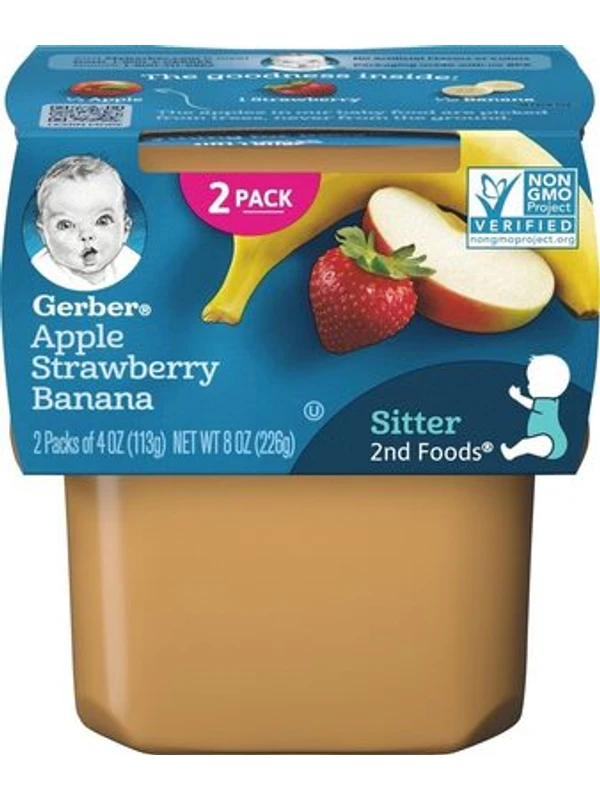
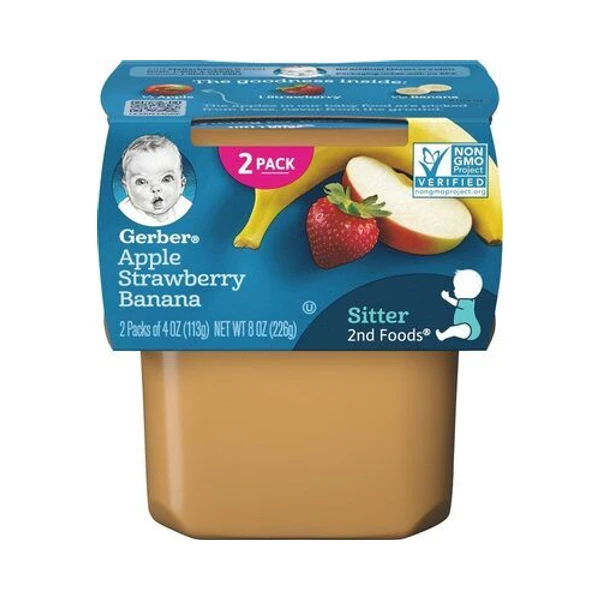
fix(images): remove cross-brand stand-ins — validator Errors 0
Six branded products were showing competitor photos (trust/legal risk):
Cola→Pepsi, Snickers→Mars, Nutella→Milka, Bounty→Mars, Barilla→Makfa,
Gerber→FrutoNyanya. Validator flagged all as BRAND MISMATCH.

- cola/snickers/nutella/bounty/penne-barilla: image removed,
  imageStatus=rejected → clean emoji placeholder (honest, no competitor)
- gerber: fetched real Gerber shot from OpenFoodFacts (verified_generic)
- rejected two amateur OFf photos (hand-held/in-store) — below catalog bar
- added OFf_QUERY_OVERRIDES for the 6 flagship brands
- manifest updated; VALID_PRODUCT_IMAGES disk guard keeps stale rows safe

validate:images → Errors: 0 (was 6); tsc clean; coverage 78%→82%

diff --git a/src/data/products.ts b/src/data/products.ts
@@ -1207,7 +1207,7 @@ export const products: Product[] = [
     tags: ["сок", "мультифрукт", "напитки"],
   },
   {
-    id: "cola", imageStatus: "verified_exact", image: "/products/cola.webp", emoji: "🥤",
+    id: "cola", imageStatus: "rejected", emoji: "🥤",
     category: "Напитки",
     title: "Кока-Кола",
     description: "Кока-Кола газированный напиток. Бутылка 1.5л.",
@@ -1637,7 +1637,7 @@ export const products: Product[] = [
     tags: ["пряники", "медовые", "глазурь"],
   },
   {
-    id: "snickers", imageStatus: "verified_exact", image: "/products/snickers.webp", emoji: "🍫",
+    id: "snickers", imageStatus: "rejected", emoji: "🍫",
     category: "Кондитерские изделия",
     title: "Snickers шоколадный батончик",
     description: "Snickers с карамелью, арахисом и нугой. 95г.",
@@ -1664,7 +1664,7 @@ export const products: Product[] = [
     tags: ["oreo", "печенье", "шоколад", "начинка"],
   },
   {
-    id: "nutella", imageStatus: "verified_exact", image: "/products/nutella.webp", emoji: "🍫",
+    id: "nutella", imageStatus: "rejected", emoji: "🍫",
     category: "Кондитерские изделия",
     title: "Нутелла шоколадная паста",
     description: "Nutella шоколадно-фундуковая паста. Стеклянная банка 400г.",
@@ -1673,7 +1673,7 @@ export const products: Product[] = [
     tags: ["нутелла", "nutella", "паста", "фундук"],
   },
   {
-    id: "bounty", imageStatus: "verified_exact", image: "/products/bounty.webp", emoji: "🍫",
+    id: "bounty", imageStatus: "rejected", emoji: "🍫",
     category: "Кондитерские изделия",
     title: "Bounty кокосовый батончик",
     description: "Bounty с кокосовой начинкой в молочном шоколаде. 2×28.5г.",
@@ -1959,7 +1959,7 @@ export const products: Product[] = [
     tags: ["спагетти", "barilla", "макароны", "паста"],
   },
   {
-    id: "penne-barilla", imageStatus: "verified_exact", image: "/products/penne-barilla.webp", emoji: "🍝",
+    id: "penne-barilla", imageStatus: "rejected", emoji: "🍝",
     category: "Бакалея",
     title: "Пенне Barilla Rigate",
     description: "Пенне Barilla Rigate рифлёные. Упаковка 500г.",
@@ -2794,7 +2794,7 @@ export const products: Product[] = [
   // ─── ДЕТСКОЕ ПИТАНИЕ ────────────────────────────────────────────────────────
 
   {
-    id: "baby-puree-apple-gerber", imageStatus: "needs_review", image: "/products/baby-puree-apple-gerber.webp", emoji: "🍎",
+    id: "baby-puree-apple-gerber", imageStatus: "verified_generic", image: "/products/baby-puree-apple-gerber.webp", emoji: "🍎",
     category: "Детское питание",
     title: "Пюре яблочное Gerber",
     description: "Пюре яблочное Gerber без сахара и добавок. Баночка 130г. Для детей с 4 мес.",

diff --git a/scripts/batch-fetch-images.ts b/scripts/batch-fetch-images.ts
@@ -579,6 +579,14 @@ const OFf_QUERY_OVERRIDES: Record<string, string> = {
   "baby-porridge-rice-nestle": "Nestlé baby rice cereal porridge",
   "caramel-syrup":        "caramel syrup coffee Monin bottle",
 
+  // ─── BRANDED FLAGSHIPS (must show correct brand — no competitor stand-ins) ───
+  "cola":                   "Coca-Cola classic original",
+  "snickers":               "Snickers chocolate bar",
+  "nutella":                "Nutella hazelnut spread Ferrero",
+  "bounty":                 "Bounty coconut chocolate bar",
+  "penne-barilla":          "Barilla penne rigate pasta",
+  "baby-puree-apple-gerber":"Gerber apple puree baby food",
+
   // ─── HORECA PACKAGING (low priority — but OFf might have them) ───────────────
   "foil-food":              "aluminum foil kitchen roll",
   "cling-film":             "cling film food wrap",
